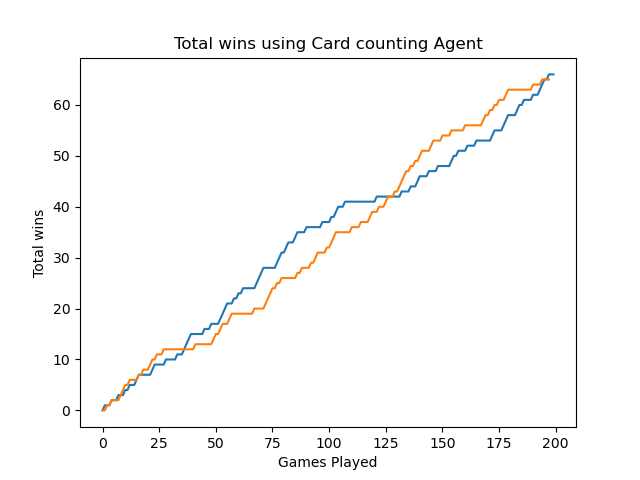
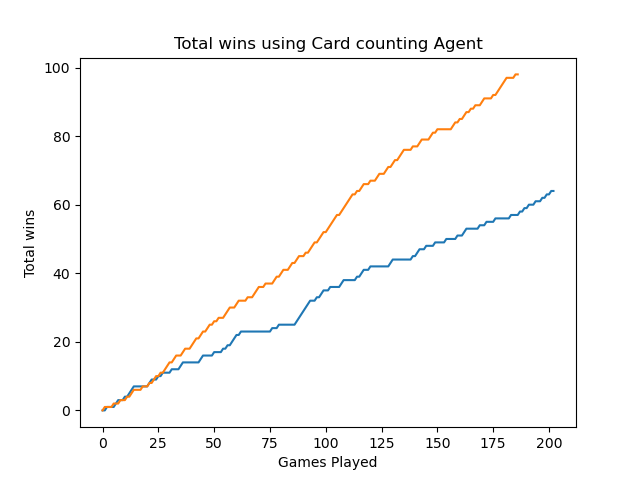
Fixed mistake

diff --git a/main.py b/main.py
@@ -64,12 +64,16 @@ def play_multiple_rounds(n):
         all_result += results
     return all_result
 
-
+def play_multiple_rounds_cc(n):
+    all_result = []
+    for i in range(n):
+        _, _, _, results = play_round(bj, CardCountingAgent())
+        all_result += results
+    return all_result
 
 #states, actions, _, results = play_round(bj, RandomAgent())
 #round_compare_visualization(bj, states, actions, RandomAgent())
 plot_wins(play_multiple_rounds(20), "Random Agent")
-plot_wins(play_multiple_rounds(20), "Card counting Agent")
-plot_legend(["Random", "Card Counting"])
+plot_wins(play_multiple_rounds_cc(20), "Card counting Agent")
 
 print(play_round(bj, CardCountingAgent()))
